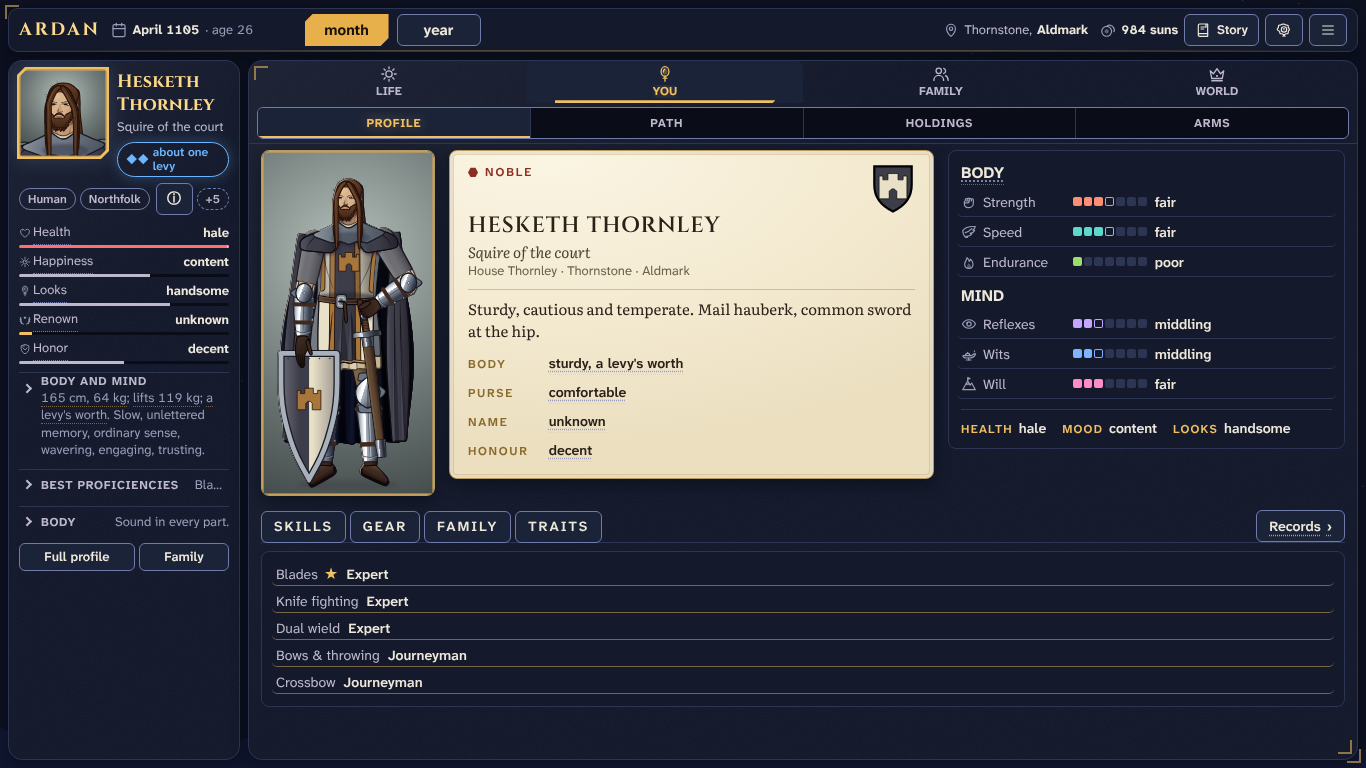
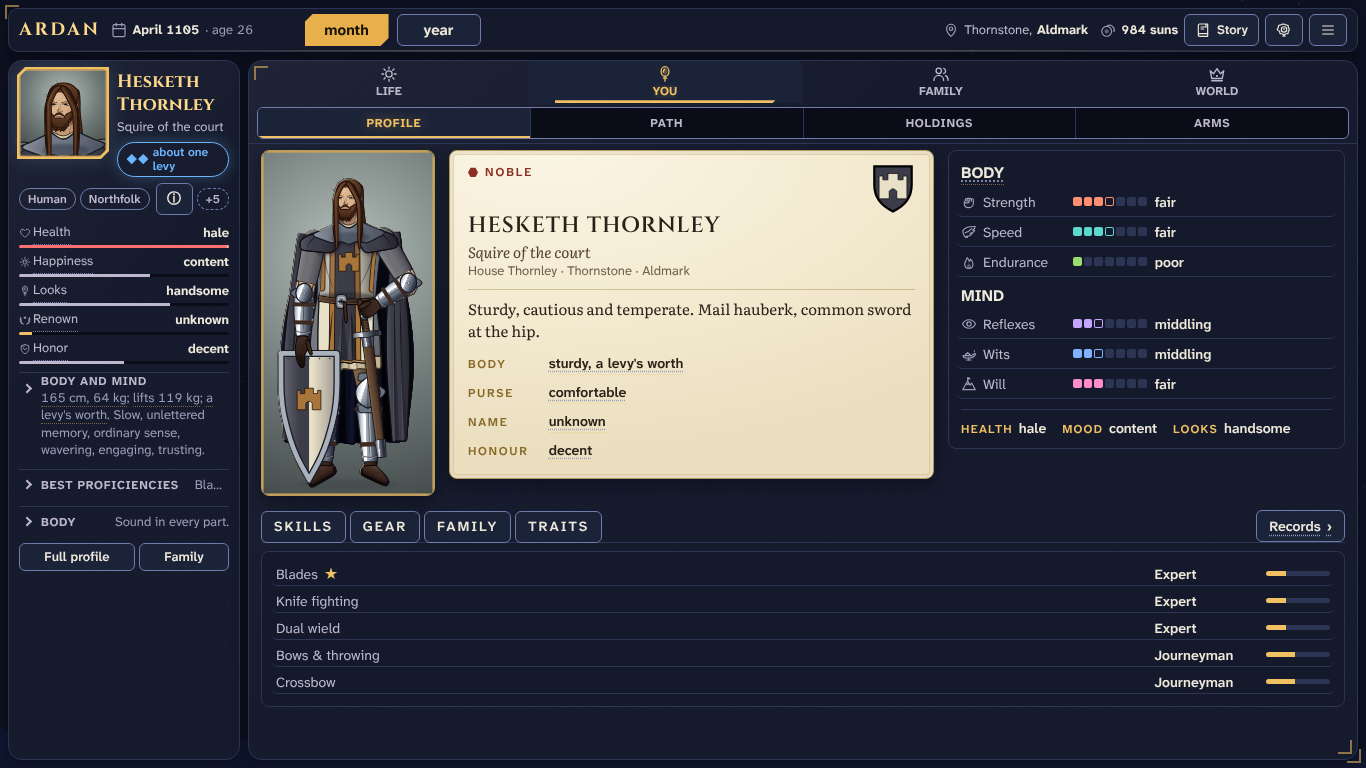
P2: skill rows keep their grid; screenshots before/after/records
Claude-Session: https://claude.ai/code/session_01E88gMLSb1Qq1nofSPwe7KK

Changed region(s): [[0.8302, 0.7188, 0.9839, 0.9062], [0.246, 0.7812, 0.3382, 0.9062], [0.246, 0.7188, 0.2767, 0.7812]]

diff --git a/src/ui/999996-profile-tab/profile.b-view.core.js b/src/ui/999996-profile-tab/profile.b-view.core.js
@@ -454,7 +454,7 @@
 .pf-h2{margin:8px 0 2px;font:600 var(--t-small,13px)/1.3 var(--f-ui);letter-spacing:.1em;text-transform:uppercase;color:var(--ink-2)}
 .pf-empty,.pf-fine{margin:2px 0;color:var(--ink-3);font-size:var(--t-small,13px)}
 .pf-fight .pf-row{grid-template-columns:6.6em auto minmax(0,1fr);border-bottom:0}
-.pf .tt.pf-sk{text-decoration:none;border-bottom:1px solid var(--line);padding:0 4px;margin:0 -4px;border-radius:5px}.pf .tt.pf-sk:hover{background:var(--accent-tint)}
+#game .pf .tt.pf-sk{display:grid;grid-template-columns:minmax(0,1fr) 7.4em 64px;gap:8px;align-items:center;text-decoration:none;border:0;border-bottom:1px solid var(--line);padding:0 4px;margin:0 -4px;border-radius:5px}.pf .tt.pf-sk:hover{background:var(--accent-tint)}
 .pf-sk{display:grid;grid-template-columns:minmax(0,1fr) 7.4em 64px;gap:8px;align-items:center;font-size:var(--t-ui,14px);min-height:26px}
 .pf-tier{font-weight:600;color:var(--ink)}
 .pf-prog{display:block;height:5px;border-radius:3px;background:var(--line);overflow:hidden}
@@ -477,7 +477,7 @@
 @container pf (min-width:920px){.pf-hero{grid-template-columns:auto minmax(0,1.1fr) minmax(0,.9fr)}}
 @container pf (min-width:600px) and (max-width:919px){.pf-hero{grid-template-columns:auto minmax(0,1fr)}.pf-sheet{grid-column:1 / -1}}
 @container pf (max-width:599px){.pf-hero{grid-template-columns:124px minmax(0,1fr);gap:10px}.pf-sheet{grid-column:1 / -1}.pf-fig{width:124px}.pf-name{font-size:var(--t-h3,17px)}
- .pf-row{grid-template-columns:6.6em 64px minmax(0,1fr);min-height:44px}.pf-li{grid-template-columns:5.6em minmax(0,1fr)}.pf-sk{grid-template-columns:minmax(0,1fr) 6.6em 44px;min-height:40px}.pf-tab{flex:1 1 auto;justify-content:center;padding:0 8px}.pf-reclink{flex:1 0 100%;margin-left:0;justify-content:flex-end;min-height:44px}.pf-m{grid-template-columns:4.6em minmax(0,1fr)}}
+ .pf-row{grid-template-columns:6.6em 64px minmax(0,1fr);min-height:44px}.pf-li{grid-template-columns:5.6em minmax(0,1fr)}.pf-sk,#game .pf .tt.pf-sk{grid-template-columns:minmax(0,1fr) 6.6em 44px;min-height:40px}.pf-tab{flex:1 1 auto;justify-content:center;padding:0 8px}.pf-reclink{flex:1 0 100%;margin-left:0;justify-content:flex-end;min-height:44px}.pf-m{grid-template-columns:4.6em minmax(0,1fr)}}
 @media (prefers-reduced-motion:reduce){.pf-chev{transition:none}}
 `;
   const put = () => { if (typeof document === 'undefined' || document.getElementById('pf-style')) return; const s = document.createElement('style'); s.id = 'pf-style'; s.textContent = CSS; (document.head || document.documentElement).appendChild(s); };
